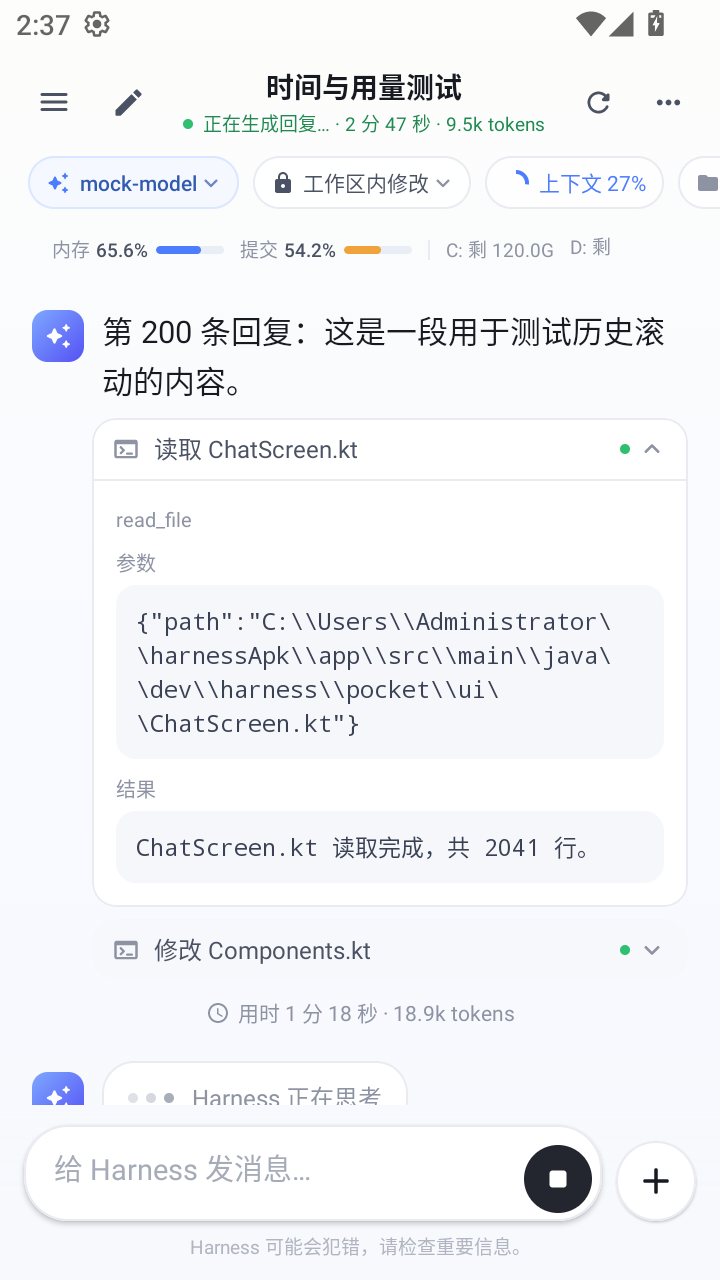
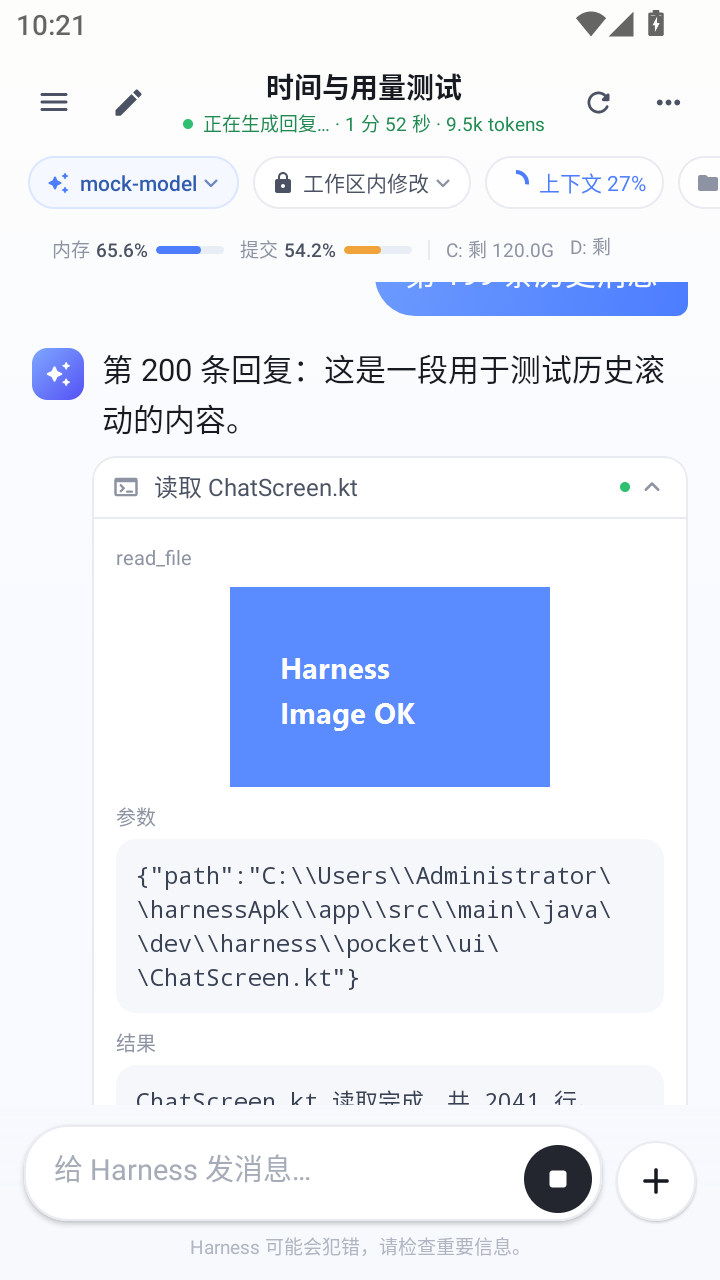
fix: render chat images and open fullscreen viewer

diff --git a/app/src/main/java/dev/harness/pocket/ui/Components.kt b/app/src/main/java/dev/harness/pocket/ui/Components.kt
@@ -1,11 +1,14 @@
 package dev.harness.pocket.ui
 
 import android.graphics.BitmapFactory
+import android.util.Base64
 import androidx.compose.foundation.BorderStroke
 import androidx.compose.foundation.Image
 import androidx.compose.foundation.background
 import androidx.compose.foundation.border
 import androidx.compose.foundation.clickable
+import androidx.compose.foundation.gestures.rememberTransformableState
+import androidx.compose.foundation.gestures.transformable
 import androidx.compose.foundation.horizontalScroll
 import androidx.compose.foundation.layout.Arrangement
 import androidx.compose.foundation.layout.Box
@@ -37,6 +40,7 @@ import androidx.compose.material.icons.rounded.AutoAwesome
 import androidx.compose.material.icons.rounded.Check
 import androidx.compose.material.icons.rounded.CheckBox
 import androidx.compose.material.icons.rounded.CheckBoxOutlineBlank
+import androidx.compose.material.icons.rounded.Close
 import androidx.compose.material.icons.rounded.ContentCopy
 import androidx.compose.material.icons.rounded.ErrorOutline
 import androidx.compose.material.icons.rounded.ExpandLess
@@ -73,10 +77,12 @@ import androidx.compose.ui.Modifier
 import androidx.compose.ui.draw.alpha
 import androidx.compose.ui.draw.clip
 import androidx.compose.ui.draw.shadow
+import androidx.compose.ui.geometry.Offset
 import androidx.compose.ui.graphics.Brush
 import androidx.compose.ui.graphics.Color
 import androidx.compose.ui.graphics.SolidColor
 import androidx.compose.ui.graphics.asImageBitmap
+import androidx.compose.ui.graphics.graphicsLayer
 import androidx.compose.ui.graphics.vector.ImageVector
 import androidx.compose.ui.layout.ContentScale
 import androidx.compose.ui.platform.LocalClipboardManager
@@ -89,6 +95,8 @@ import androidx.compose.ui.text.style.TextOverflow
 import androidx.compose.ui.unit.Dp
 import androidx.compose.ui.unit.dp
 import androidx.compose.ui.unit.sp
+import androidx.compose.ui.window.Dialog
+import androidx.compose.ui.window.DialogProperties
 import dev.harness.pocket.BuildConfig
 import dev.harness.pocket.data.AskAnswer
 import dev.harness.pocket.data.AskBatch
@@ -98,7 +106,6 @@ import dev.harness.pocket.data.ToolItem
 import dev.harness.pocket.data.TurnTime
 import kotlinx.coroutines.delay
 import org.json.JSONObject
-import java.util.Base64
 import kotlin.math.PI
 import kotlin.math.sin
 
@@ -355,9 +362,12 @@ fun ChatImageBox(
 ) {
     var payload by remember(image.attachmentId) { mutableStateOf(image.data) }
     var failed by remember(image.attachmentId) { mutableStateOf(false) }
+    var reload by remember(image.attachmentId) { mutableStateOf(0) }
+    var viewerOpen by remember(image.attachmentId) { mutableStateOf(false) }
 
-    LaunchedEffect(image.attachmentId) {
+    LaunchedEffect(image.attachmentId, reload) {
         if (payload.isNullOrBlank()) {
+            failed = false
             payload = try {
                 load(image.attachmentId)?.data
             } catch (_: Exception) {
@@ -367,14 +377,8 @@ fun ChatImageBox(
         }
     }
 
-    val bitmap = remember(payload) {
-        payload?.let { data ->
-            runCatching {
-                val bytes = Base64.getDecoder().decode(data)
-                BitmapFactory.decodeByteArray(bytes, 0, bytes.size)
-            }.getOrNull()
-        }
-    }
+    val bitmap = remember(payload) { payload?.let { decodeImageBitmap(it) } }
+    val cannotShow = bitmap == null && (!payload.isNullOrBlank() || failed)
 
     if (bitmap != null) {
         Image(
@@ -383,20 +387,37 @@ fun ChatImageBox(
             modifier = modifier
                 .fillMaxWidth()
                 .heightIn(max = 360.dp)
-                .clip(RoundedCornerShape(14.dp)),
+                .clip(RoundedCornerShape(14.dp))
+                .clickable { viewerOpen = true },
             contentScale = ContentScale.Fit
         )
+        if (viewerOpen) {
+            ImageViewerDialog(
+                bitmap = bitmap,
+                title = image.name ?: "图片",
+                onDismiss = { viewerOpen = false }
+            )
+        }
     } else {
         Box(
             modifier
                 .fillMaxWidth()
                 .height(148.dp)
                 .clip(RoundedCornerShape(14.dp))
-                .background(Color(0xFFF1F4FA)),
+                .background(Color(0xFFF1F4FA))
+                .clickable(enabled = cannotShow) {
+                    payload = null
+                    failed = false
+                    reload += 1
+                },
             contentAlignment = Alignment.Center
         ) {
-            if (failed) {
-                Text("图片加载失败", color = Muted, fontSize = 11.5.sp)
+            if (cannotShow) {
+                Column(horizontalAlignment = Alignment.CenterHorizontally) {
+                    Text("图片加载失败", color = Muted, fontSize = 11.5.sp)
+                    Spacer(Modifier.height(5.dp))
+                    Text("轻触重试", color = Blue, fontSize = 11.sp)
+                }
             } else {
                 CircularProgressIndicator(
                     modifier = Modifier.size(18.dp),
@@ -404,6 +425,90 @@ fun ChatImageBox(
                     strokeWidth = 1.8.dp
                 )
             }
+        }
+    }
+}
+
+private fun decodeImageBitmap(raw: String): android.graphics.Bitmap? {
+    var text = raw.trim()
+    if (text.startsWith("data:", ignoreCase = true)) {
+        text = text.substringAfter(',', missingDelimiterValue = "")
+    }
+    text = text.filterNot { it.isWhitespace() }
+    if (text.isBlank()) return null
+    val flags = listOf(Base64.DEFAULT, Base64.URL_SAFE or Base64.NO_WRAP)
+    for (flag in flags) {
+        val bytes = runCatching { Base64.decode(text, flag) }.getOrNull() ?: continue
+        val bitmap = runCatching { BitmapFactory.decodeByteArray(bytes, 0, bytes.size) }.getOrNull()
+        if (bitmap != null) return bitmap
+    }
+    return null
+}
+
+@Composable
+private fun ImageViewerDialog(
+    bitmap: android.graphics.Bitmap,
+    title: String,
+    onDismiss: () -> Unit
+) {
+    var scale by remember { mutableStateOf(1f) }
+    var offset by remember { mutableStateOf(Offset.Zero) }
+    val transformState = rememberTransformableState { zoomChange, panChange, _ ->
+        scale = (scale * zoomChange).coerceIn(1f, 5f)
+        offset = if (scale <= 1f) Offset.Zero else offset + panChange
+    }
+
+    Dialog(
+        onDismissRequest = onDismiss,
+        properties = DialogProperties(usePlatformDefaultWidth = false)
+    ) {
+        Box(
+            Modifier
+                .fillMaxSize()
+                .background(Color.Black)
+                .transformable(transformState)
+        ) {
+            Image(
+                bitmap = bitmap.asImageBitmap(),
+                contentDescription = title,
+                modifier = Modifier
+                    .fillMaxSize()
+                    .graphicsLayer {
+                        scaleX = scale
+                        scaleY = scale
+                        translationX = offset.x
+                        translationY = offset.y
+                    },
+                contentScale = ContentScale.Fit
+            )
+            Row(
+                Modifier
+                    .align(Alignment.TopEnd)
+                    .systemBarsPadding()
+                    .padding(12.dp)
+                    .background(Color(0x99000000), RoundedCornerShape(20.dp))
+                    .clickable(onClick = onDismiss)
+                    .padding(horizontal = 12.dp, vertical = 8.dp),
+                verticalAlignment = Alignment.CenterVertically
+            ) {
+                Icon(
+                    Icons.Rounded.Close,
+                    contentDescription = "关闭图片",
+                    tint = Color.White,
+                    modifier = Modifier.size(18.dp)
+                )
+                Spacer(Modifier.width(5.dp))
+                Text("关闭", color = Color.White, fontSize = 12.sp)
+            }
+            Text(
+                text = "双指缩放",
+                color = Color(0x99FFFFFF),
+                fontSize = 11.sp,
+                modifier = Modifier
+                    .align(Alignment.BottomCenter)
+                    .systemBarsPadding()
+                    .padding(bottom = 22.dp)
+            )
         }
     }
 }
@@ -896,18 +1001,6 @@ fun ToolCard(
                 modifier = Modifier.size(16.dp)
             )
         }
-        if (item.images.isNotEmpty()) {
-            Column(
-                Modifier
-                    .fillMaxWidth()
-                    .padding(start = 10.dp, end = 10.dp, bottom = 10.dp),
-                verticalArrangement = Arrangement.spacedBy(8.dp)
-            ) {
-                item.images.forEach { image ->
-                    ChatImageBox(image = image, load = onLoadImage)
-                }
-            }
-        }
         if (expanded) {
             Box(
                 Modifier
@@ -926,6 +1019,13 @@ fun ToolCard(
                     maxLines = 1,
                     overflow = TextOverflow.Ellipsis
                 )
+                if (item.images.isNotEmpty()) {
+                    Column(verticalArrangement = Arrangement.spacedBy(8.dp)) {
+                        item.images.forEach { image ->
+                            ChatImageBox(image = image, load = onLoadImage)
+                        }
+                    }
+                }
                 if (item.input.isNotBlank()) {
                     ToolCode(label = "参数", text = item.input)
                 }
